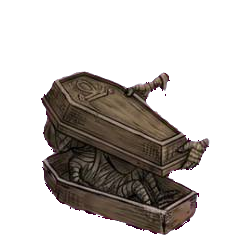
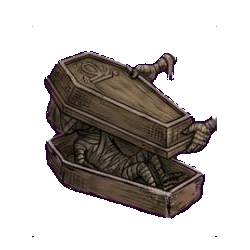
Preserve Mummy Guardian leg details

Changed region(s): [[0.168, 0.196, 0.868, 0.952]]

diff --git a/test_v2_motion.js b/test_v2_motion.js
@@ -11,6 +11,7 @@ const practiceSource = fs.readFileSync(path.join(root, "v2-animation-practice.js
 const serviceWorker = fs.readFileSync(path.join(root, "service-worker.js"), "utf8");
 const indexHtml = fs.readFileSync(path.join(root, "index.html"), "utf8");
 const battleHtml = fs.readFileSync(path.join(root, "v2.html"), "utf8");
+const greenProcessor = fs.readFileSync(path.join(root, "scripts/process-green-animation-sheet.ps1"), "utf8");
 
 assert(indexHtml.includes('href="v2-animation-practice.html">모션 테스트</a>'), "Start screen motion test link is missing.");
 assert(battleHtml.includes('href="v2-animation-practice.html" class="secondary-action">모션 테스트</a>'), "V2 motion test link is missing.");
@@ -112,6 +113,7 @@ for (const [motion, count] of Object.entries({ attack: 5, hit: 4, death: 5 })) {
   }
 }
 assert(!fs.existsSync(path.join(root, "art/v2-style/animation-test-frames/mummy-guardian/death-06.png")), "Mummy Guardian final source death frame must not be used.");
+assert(greenProcessor.includes('|| String.Equals(unitName, "mummy-guardian", StringComparison.OrdinalIgnoreCase);'), "Mummy Guardian must use conservative magenta removal to preserve its legs and staff.");
 assert(!fs.existsSync(path.join(root, "art/v2-style/animation-test-frames/boulder-ogre/death-06.png")), "Boulder Ogre death frame 6 must not be used.");
 assert(practiceSource.includes('(index === 1 || index === 2) ? 1.1'), "Death Knight attack frames 2 and 3 must be enlarged to 1.1x.");
 assert(practiceSource.includes('index === 1 ? 1.3'), "Boulder Ogre attack frame 2 must remain enlarged to 1.3x.");
@@ -197,7 +199,7 @@ assert(fs.existsSync(path.join(root, "art/v2-style/animation-sheets/green-raw/mi
 assert(fs.existsSync(path.join(root, "art/v2-style/animation-sheets/green-raw/skeleton-cavalry-animation-sheet.jpg")), "New raw Skeleton Cavalry sheet is missing.");
 assert(fs.existsSync(path.join(root, "art/v2-style/animation-sheets/green-raw/soul-reaper-animation-sheet.jpg")), "New raw Soul Reaper sheet is missing.");
 assert(fs.existsSync(path.join(root, "art/v2-style/animation-sheets/green-raw/mummy-guardian-animation-sheet.jpg")), "New raw Mummy Guardian sheet is missing.");
-assert(serviceWorker.includes("necromancer-expedition-v94"), "Service worker cache version was not bumped.");
+assert(serviceWorker.includes("necromancer-expedition-v95"), "Service worker cache version was not bumped.");
 assert(!serviceWorker.includes("animation-sheets/uploaded-raw"), "Deleted legacy animation sheets remain in offline cache.");
 assert(!serviceWorker.includes("animation-test-crops"), "Deleted comparison crops remain in offline cache.");
 for (const match of serviceWorker.matchAll(/^\s*"(\.\/[^"?]+)(?:\?[^\"]*)?"[,]?$/gm)) {

diff --git a/service-worker.js b/service-worker.js
@@ -1,4 +1,4 @@
-const CACHE_NAME = "necromancer-expedition-v94";
+const CACHE_NAME = "necromancer-expedition-v95";
 const APP_SHELL = [
   "./",
   "./index.html",
